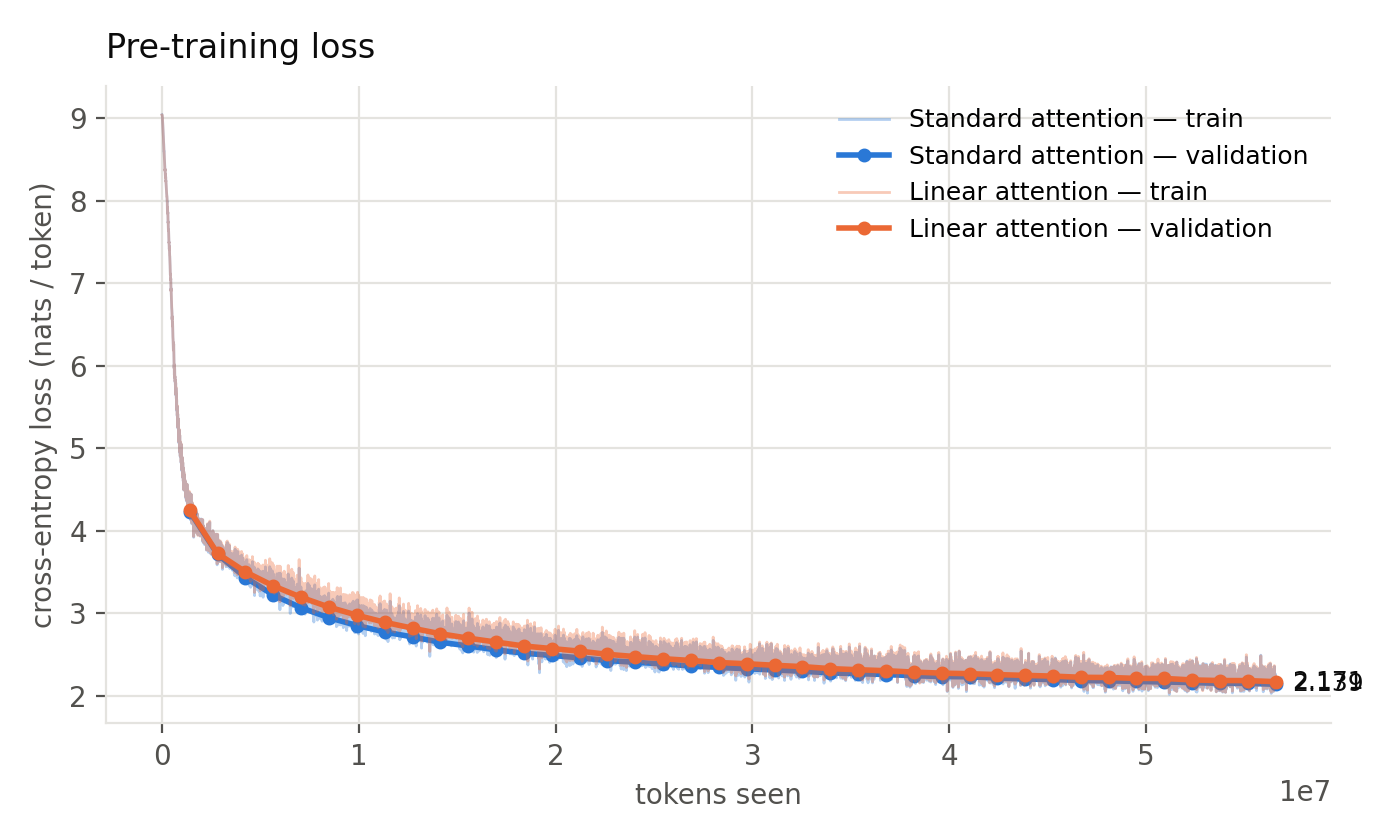
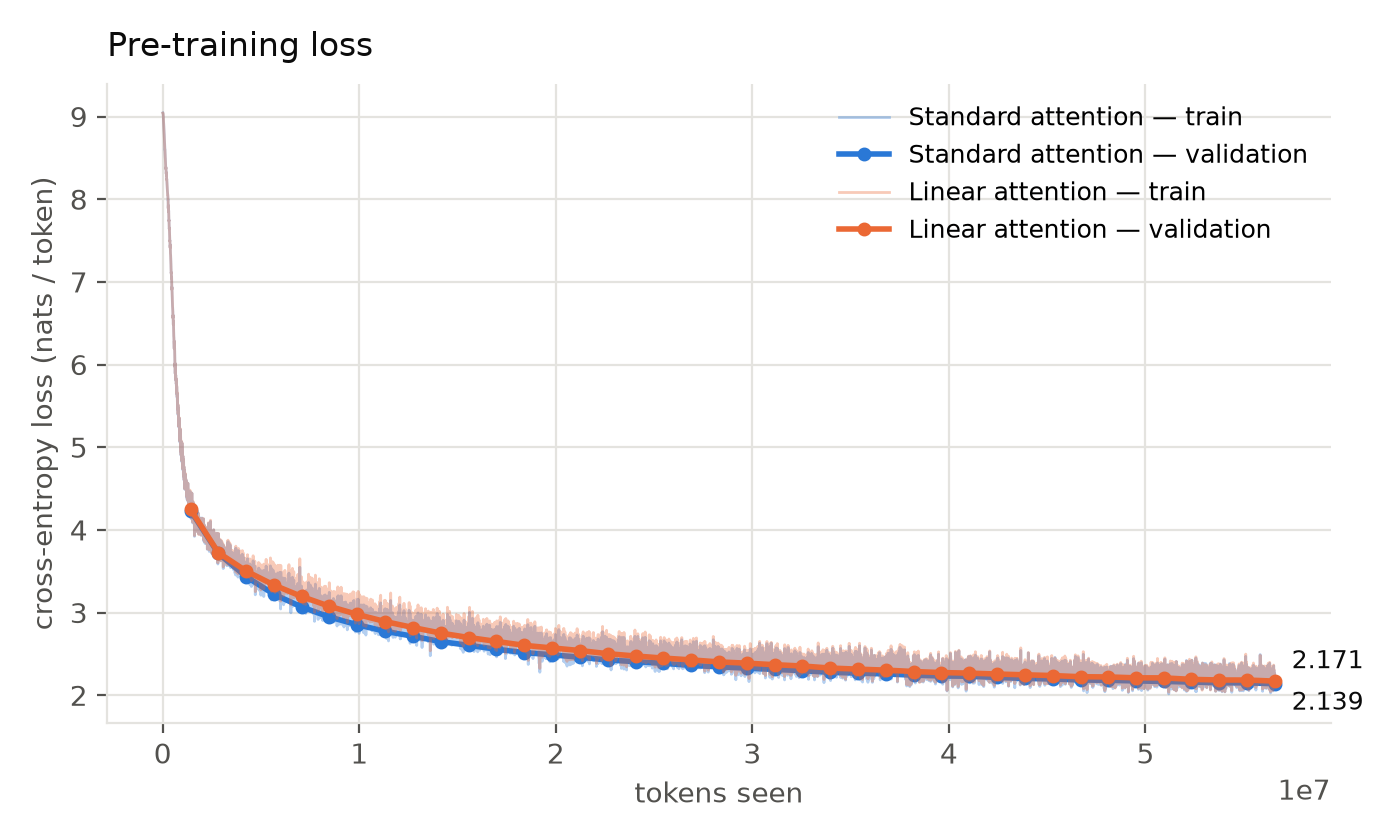
Loss figures: validation-only view, both fine-tuning runs, end labels that do not overlap
Add a --val-only option to make_figures loss and use it in run_final.sh; spread the
end-of-curve labels by value. Reference the figures in the report and add the final
results table and reproduction steps to the README.

diff --git a/src/make_figures.py b/src/make_figures.py
@@ -58,21 +58,27 @@ def read_train_log(path):
     return steps, train, val_x, val
 
 
-def plot_loss(logs, labels, out, title="Pre-training loss"):
-    """Training (thin, light) and validation (solid, markers) loss vs tokens seen; one colour per run."""
+def plot_loss(logs, labels, out, title="Pre-training loss", val_only=False):
+    """Training (thin, light) and validation (solid, markers) loss vs tokens seen; one colour per run.
+    val_only drops the training curves so close validation curves can be told apart."""
     fig, ax = plt.subplots(figsize=(7, 4.2))
     use_tokens = True
+    ends = []
     for i, (path, label) in enumerate(zip(logs, labels)):
         x, tr, vx, va = read_train_log(path)
         with open(path) as fh:
             use_tokens &= "tokens_seen" in (csv.DictReader(fh).fieldnames or [])
         c = SERIES[i]
-        if tr:
+        if tr and not val_only:
             ax.plot(x, tr, color=c, linewidth=1, alpha=0.35, label=f"{label} — train")
         if va:
             ax.plot(vx, va, color=c, linewidth=2, marker="o", markersize=4, label=f"{label} — validation")
-            ax.annotate(f"{va[-1]:.3f}", (vx[-1], va[-1]), xytext=(6, 0), textcoords="offset points",
-                        va="center", fontsize=9, color=INK)
+            ends.append((va[-1], vx[-1]))
+    # end labels of several runs sit close together: spread them vertically, lowest curve lowest
+    for rank, (v, xe) in enumerate(sorted(ends)):
+        dy = (rank - (len(ends) - 1) / 2) * 14
+        ax.annotate(f"{v:.3f}", (xe, v), xytext=(6, dy), textcoords="offset points",
+                    va="center", fontsize=9, color=INK)
     _style(ax, title, "tokens seen" if use_tokens else "step", "cross-entropy loss (nats / token)")
     ax.legend(frameon=False, fontsize=9)
     _save(fig, out)
@@ -159,6 +165,7 @@ def main(argv=None):
     p.add_argument("--logs", nargs="+", required=True)
     p.add_argument("--labels", nargs="+", required=True)
     p.add_argument("--title", default="Pre-training loss")
+    p.add_argument("--val-only", action="store_true", help="validation curves only")
     p.add_argument("--out", required=True)
     p = sub.add_parser("bench")
     p.add_argument("--bench", required=True)
@@ -172,7 +179,7 @@ def main(argv=None):
     p.add_argument("--out", required=True)
     a = ap.parse_args(argv)
     if a.cmd == "loss":
-        plot_loss(a.logs, a.labels, a.out, a.title)
+        plot_loss(a.logs, a.labels, a.out, a.title, a.val_only)
     elif a.cmd == "bench":
         plot_benchmark(a.bench, a.out_prefix)
     else:

diff --git a/report/final_report.md b/report/final_report.md
@@ -108,7 +108,7 @@ with the result. Every run is logged in `experiments/experiment_log.csv`. Figure
 | Standard attention | 56.6 M | 2.151 | 8.60 | 8.51 | 1,419 s |
 
 Validation loss tracked training loss and was still falling at step 10,000 (2.43 at step 4,000, 2.17 at 9,000), so
-there was no overfitting, and a longer run would probably go lower. Story continuations are fluent TinyStories text but
+there was no overfitting, and a longer run would probably go lower (Figure 1). Story continuations are fluent TinyStories text but
 not always consistent. For example, a monster is "big and scary" and then "very friendly" in the next sentence.
 
 ### 5.2 E2: instruction fine-tuning
@@ -118,7 +118,7 @@ not always consistent. For example, a monster is "big and scary" and then "very 
 | Pre-trained | 6.379 | pending | 0.33 | 0.000 | 0.256 |
 | Fine-tuned | 3.928 | pending | 0.55 | 0.030 | 0.453 |
 
-Response NLL is on the full Dolly test split (591 scored examples). The other columns cover 60 fixed test prompts
+Response NLL is on the full Dolly test split (591 scored examples). Figure 2 shows the fine-tuning curves. The other columns cover 60 fixed test prompts
 decoded greedily. With sampling (temperature 0.8, top-k 50), the fine-tuned model stopped on EOS in 90% of outputs
 with 4-gram repetition 0.035. Validation loss was still falling at the last SFT step. In the rehearsal, lr 3×10⁻⁴
 beat 10⁻⁴ and 2×10⁻⁵ on Dolly validation (4.64 vs 4.84 and 5.34 after one epoch), so we used it for the final runs.
@@ -144,7 +144,7 @@ Measured on a Colab Tesla T4 (15 GB, PyTorch 2.11.0).
 
 Over 4 identical runs at batch 8 × 128, standard attention gave 68,325 ± 903 tokens/s and linear attention
 27,094 ± 226, so the difference is far larger than run-to-run noise. Generation took 3.43 ms/token (standard) and
-4.05 ms/token (linear).
+4.05 ms/token (linear). Figure 3 plots the forward-time sweep.
 
 | Variant | Params | Val perplexity | Test perplexity | Training time |
 |---|---|---|---|---|
@@ -168,6 +168,14 @@ Counts of off-topic and factually wrong answers wait for the blind rubric. The a
 * **Garbled facts.** "Who is Richard Wayne Bogosian?" → "Brong Wayne is an American, politican's American diplomat in
   199597…". A 5 M-parameter model pre-trained on children's stories holds almost no world knowledge.
 * **Context.** 150 of 741 test prompts do not fit in 256 tokens, and 249 responses are cut.
+
+### Figures
+
+* **Figure 1.** Pre-training validation loss, standard vs linear attention (`results/figures/pretrain_val_loss.png`;
+  training curves too in `pretrain_loss.png`).
+* **Figure 2.** Fine-tuning loss on response tokens, both variants (`results/figures/sft_loss.png`).
+* **Figure 3.** Forward latency and memory vs sequence length on the T4 (`results/figures/bench_t4_forward_latency.png`,
+  `bench_t4_forward_memory.png`); training throughput in `bench_t4_train_throughput.png`.
 
 ## 6. Discussion
 

diff --git a/README.md b/README.md
@@ -11,6 +11,20 @@ fine-tuned on Databricks Dolly 15K, and compared with an efficient (linear) atte
 
 Interfaces between the parts: **`docs/interfaces.md`**. Member 2's detailed workflow is in **`docs/member2_data_sft.md`**.
 
+## Final results (Tesla T4, 10,000 pre-training steps, seed 42)
+
+| | Standard attention | Linear attention |
+|---|---|---|
+| Test perplexity (uniform = 8,000) | **8.51** | 8.78 |
+| Pre-training time | 1,419 s | 3,319 s |
+| Dolly test response NLL after fine-tuning (6.38 before) | **3.93** | 4.11 |
+| Training throughput, batch 32 × 256 | 79,198 tokens/s | 29,471 tokens/s |
+
+Details: `report/results.md`; write-up: `report/final_report.md`; every run: `experiments/experiment_log.csv`.
+
+**Reproduce:** open `notebooks/final_runs.ipynb` in Colab with a T4 GPU and run all cells (about 1.5 h). It calls
+`scripts/run_final.sh`, which saves everything to Google Drive and resumes where it stopped after a disconnect.
+
 ## Setup
 
 ```bash

diff --git a/report/results.md b/report/results.md
@@ -6,7 +6,7 @@
 
 ## E1 — Does pre-training work?
 
-Source: `results/metrics/<run>_perplexity.json`, `<run>_train_log.csv`. Figure: `results/figures/pretrain_loss.png`.
+Source: `results/metrics/<run>_perplexity.json`, `<run>_train_log.csv`. Figures: `results/figures/pretrain_loss.png`, `pretrain_val_loss.png` (validation only), `sft_loss.png`.
 
 | Model | Params | Train tokens | Final train loss | Val loss | Val perplexity | Test perplexity | Training time |
 |---|---|---|---|---|---|---|---|
